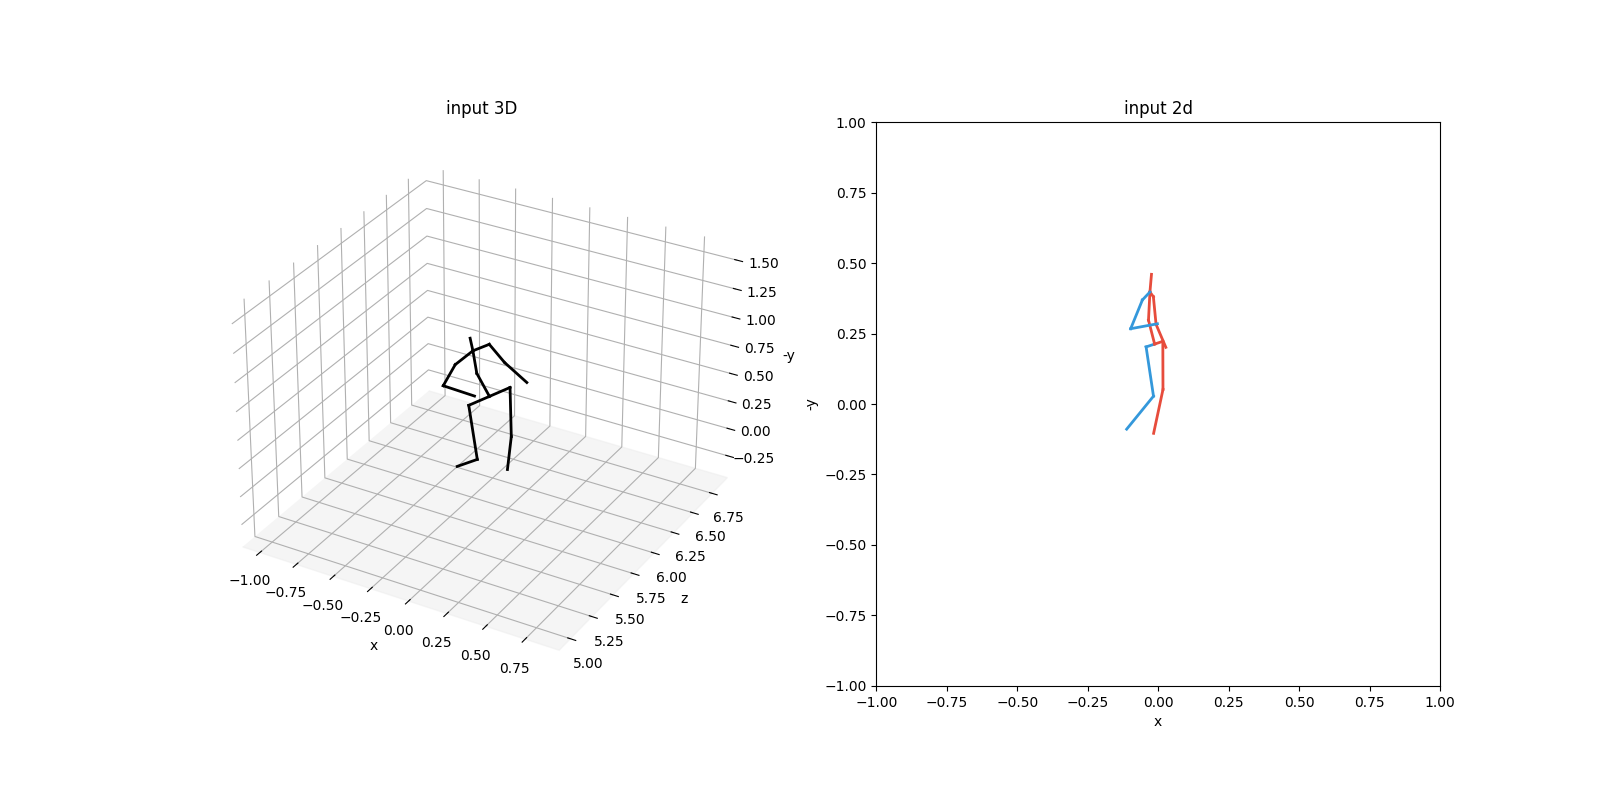
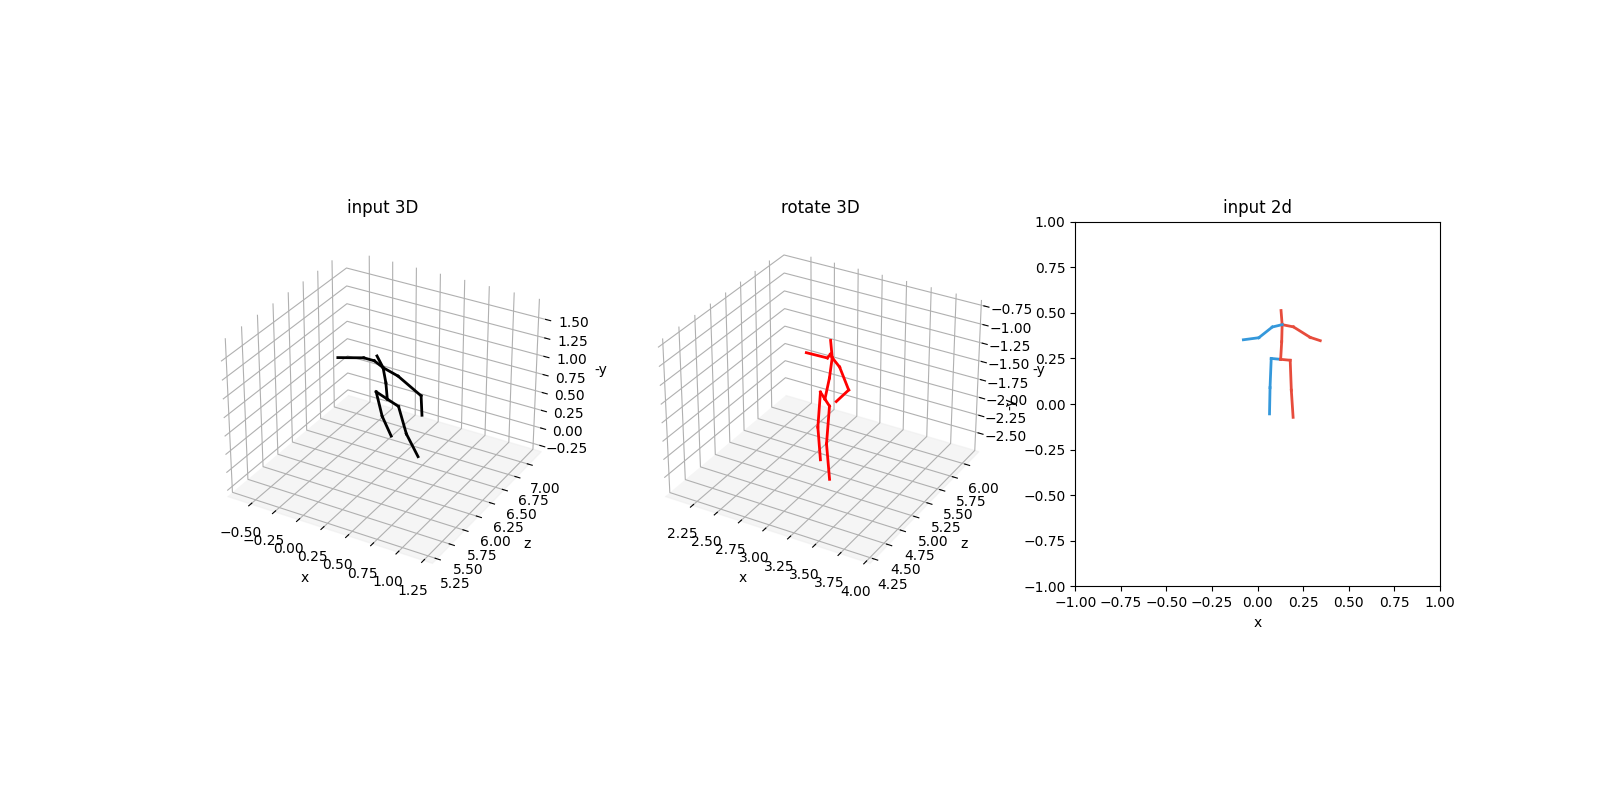
Add PCA to determine the rotation orientation and make it rotate

diff --git a/common/viz.py b/common/viz.py
@@ -5,7 +5,7 @@ import matplotlib.pyplot as plt
 import numpy as np
 import os
 from mpl_toolkits.mplot3d import Axes3D
-
+from utils.rotWithPCA import rotWithPCA
 def show3DposePair(realt3d, faket3d, ax, lcolor="#3498db", rcolor="#e74c3c", add_labels=True,
                    gt=True, pred=False):  # blue, orange
   """
@@ -32,6 +32,8 @@ def show3DposePair(realt3d, faket3d, ax, lcolor="#3498db", rcolor="#e74c3c", add
     # Make connection matrix
     for i in np.arange(len(I)):
       x, y, z = [np.array([vals[I[i], j], vals[J[i], j]]) for j in range(3)]
+      # x = [vals[I[i], 0], vals[J[i], 0]] ...
+      # x, y and z are expressed by axis vectors
       if idx == 0:
         ax.plot(x, z, -y, lw=2, c='k')
       #        ax.plot(x,y, z,  lw=2, c='k')
@@ -78,7 +80,7 @@ def show3DposePair(realt3d, faket3d, ax, lcolor="#3498db", rcolor="#e74c3c", add
 
 
 def show3Dpose(channels, ax, lcolor="#3498db", rcolor="#e74c3c", add_labels=True,
-               gt=False,pred=False): # blue, orange
+               gt=False,pred=False, rot=False): # blue, orange
     """
     Visualize a 3d skeleton
 
@@ -93,15 +95,23 @@ def show3Dpose(channels, ax, lcolor="#3498db", rcolor="#e74c3c", add_labels=True
     """
 
     #   assert channels.size == len(data_utils.H36M_NAMES)*3, "channels should have 96 entries, it has %d instead" % channels.size
-    vals = np.reshape( channels, (16, -1) )
+    vals = np.reshape(channels, (16, -1) )
+
+    # 2x3 * 3x16
+    #filterMat = np.array([[1, 0, 0], [0, 1, 0]])
+    if rot == True:
+        vals = rotWithPCA(vals)
 
     I  = np.array([0,1,2,0,4,5,0,7,8,8,10,11,8,13,14]) # start points
     J  = np.array([1,2,3,4,5,6,7,8,9,10,11,12,13,14,15]) # end points
     LR = np.array([1, 1, 1, 0, 0, 0, 0, 0, 0, 0, 0, 0, 1, 1, 1], dtype=bool)
-
+    # r = [np.array([vals[8, i], vals[10, i]]) for i in range(3)]
+    # l = [np.array([vals[8, i], vals[13, i]]) for i in range(3)]
     # Make connection matrix
     for i in np.arange( len(I) ):
         x, y, z = [np.array( [vals[I[i], j], vals[J[i], j]] ) for j in range(3)]
+        #np.concatenate((Set, np.concatenate((x, y, z), axis=0)), axis=1)
+        print("x, y, z:", x, y, z)
         if gt:
             ax.plot(x,z, -y,  lw=2, c='k')
         #        ax.plot(x,y, z,  lw=2, c='k')
@@ -211,3 +221,4 @@ def wrap_show2d_pose(vals2d):
     ax2d = plt.axes()
     show2Dpose(vals2d, ax2d)
     plt.show()
+

diff --git a/DatasetViz.py b/DatasetViz.py
@@ -25,7 +25,7 @@ if __name__ == "__main__":
     poses_train, poses_train_2d, actions_train, cams_train = fetch(subjects_train, dataset, keypoints)
     train_gt2d3d_loader = DataLoader(PoseDataSet(poses_train, poses_train_2d, actions_train, cams_train),
                                      batch_size=batch_size,
-                                     shuffle=True, num_workers=4, pin_memory=True)
+                                     shuffle=True, num_workers=2, pin_memory=True)
 
     for i, (inputs_3d, _, _, cam_param) in enumerate(train_gt2d3d_loader):
         inputs_3d, cam_param = inputs_3d.to(device), cam_param.to(device)
@@ -34,11 +34,15 @@ if __name__ == "__main__":
         fig3d = plt.figure(figsize=(16, 8))
 
         # input 3D
-        ax3din = fig3d.add_subplot(1, 2, 1, projection='3d')
-        ax3din.set_title('input 3D')
-        show3Dpose(inputs_3d.cpu().detach().numpy()[0], ax3din, gt=True)
+        ax3din1 = fig3d.add_subplot(1, 3, 1, projection='3d')
+        ax3din1.set_title('input 3D')
+        show3Dpose(inputs_3d.cpu().detach().numpy()[0], ax3din1, gt=True)
 
-        ax2din = fig3d.add_subplot(1, 2, 2)
+        ax3din2 = fig3d.add_subplot(1, 3, 2, projection='3d')
+        ax3din2.set_title('rotate 3D')
+        show3Dpose(inputs_3d.cpu().detach().numpy()[0], ax3din2, pred=True, rot=True)
+
+        ax2din = fig3d.add_subplot(1, 3, 3)
         ax2din.set_title('input 2d')
         show2Dpose(inputs_2d.cpu().detach().numpy()[0], ax2din)
 
@@ -46,3 +50,5 @@ if __name__ == "__main__":
         img_name = "./data_viz/sample{}".format(i + 1)
         plt.savefig(img_name)
         plt.close("all")
+        if i == 10:
+            break

diff --git a/utils/rotWithPCA.py b/utils/rotWithPCA.py
@@ -1,0 +1,19 @@
+from sklearn.decomposition import PCA
+import numpy as np
+
+
+def rotWithPCA (channels):
+    channels_3 = np.reshape(channels, (3, -1))
+    pca = PCA(n_components=1)
+    ang = pca.fit_transform(channels_3)
+    ang = np.reshape(ang, (3,))
+    angNorm = ang / np.linalg.norm(ang)
+    orient = np.array([0, 0, 1])
+    crossProd = np.cross(orient, angNorm)
+    dotProd = np.dot(orient, angNorm)
+    crossMat = np.array([[0, -crossProd[2], crossProd[1]],
+                         [crossProd[2], 0, -crossProd[0]],
+                         [-crossProd[1], crossProd[0], 0]])
+    rotMat = np.eye(3) + crossMat + np.dot(crossMat, crossMat) / (1 + dotProd)
+    res = np.dot(channels, rotMat)
+    return res
